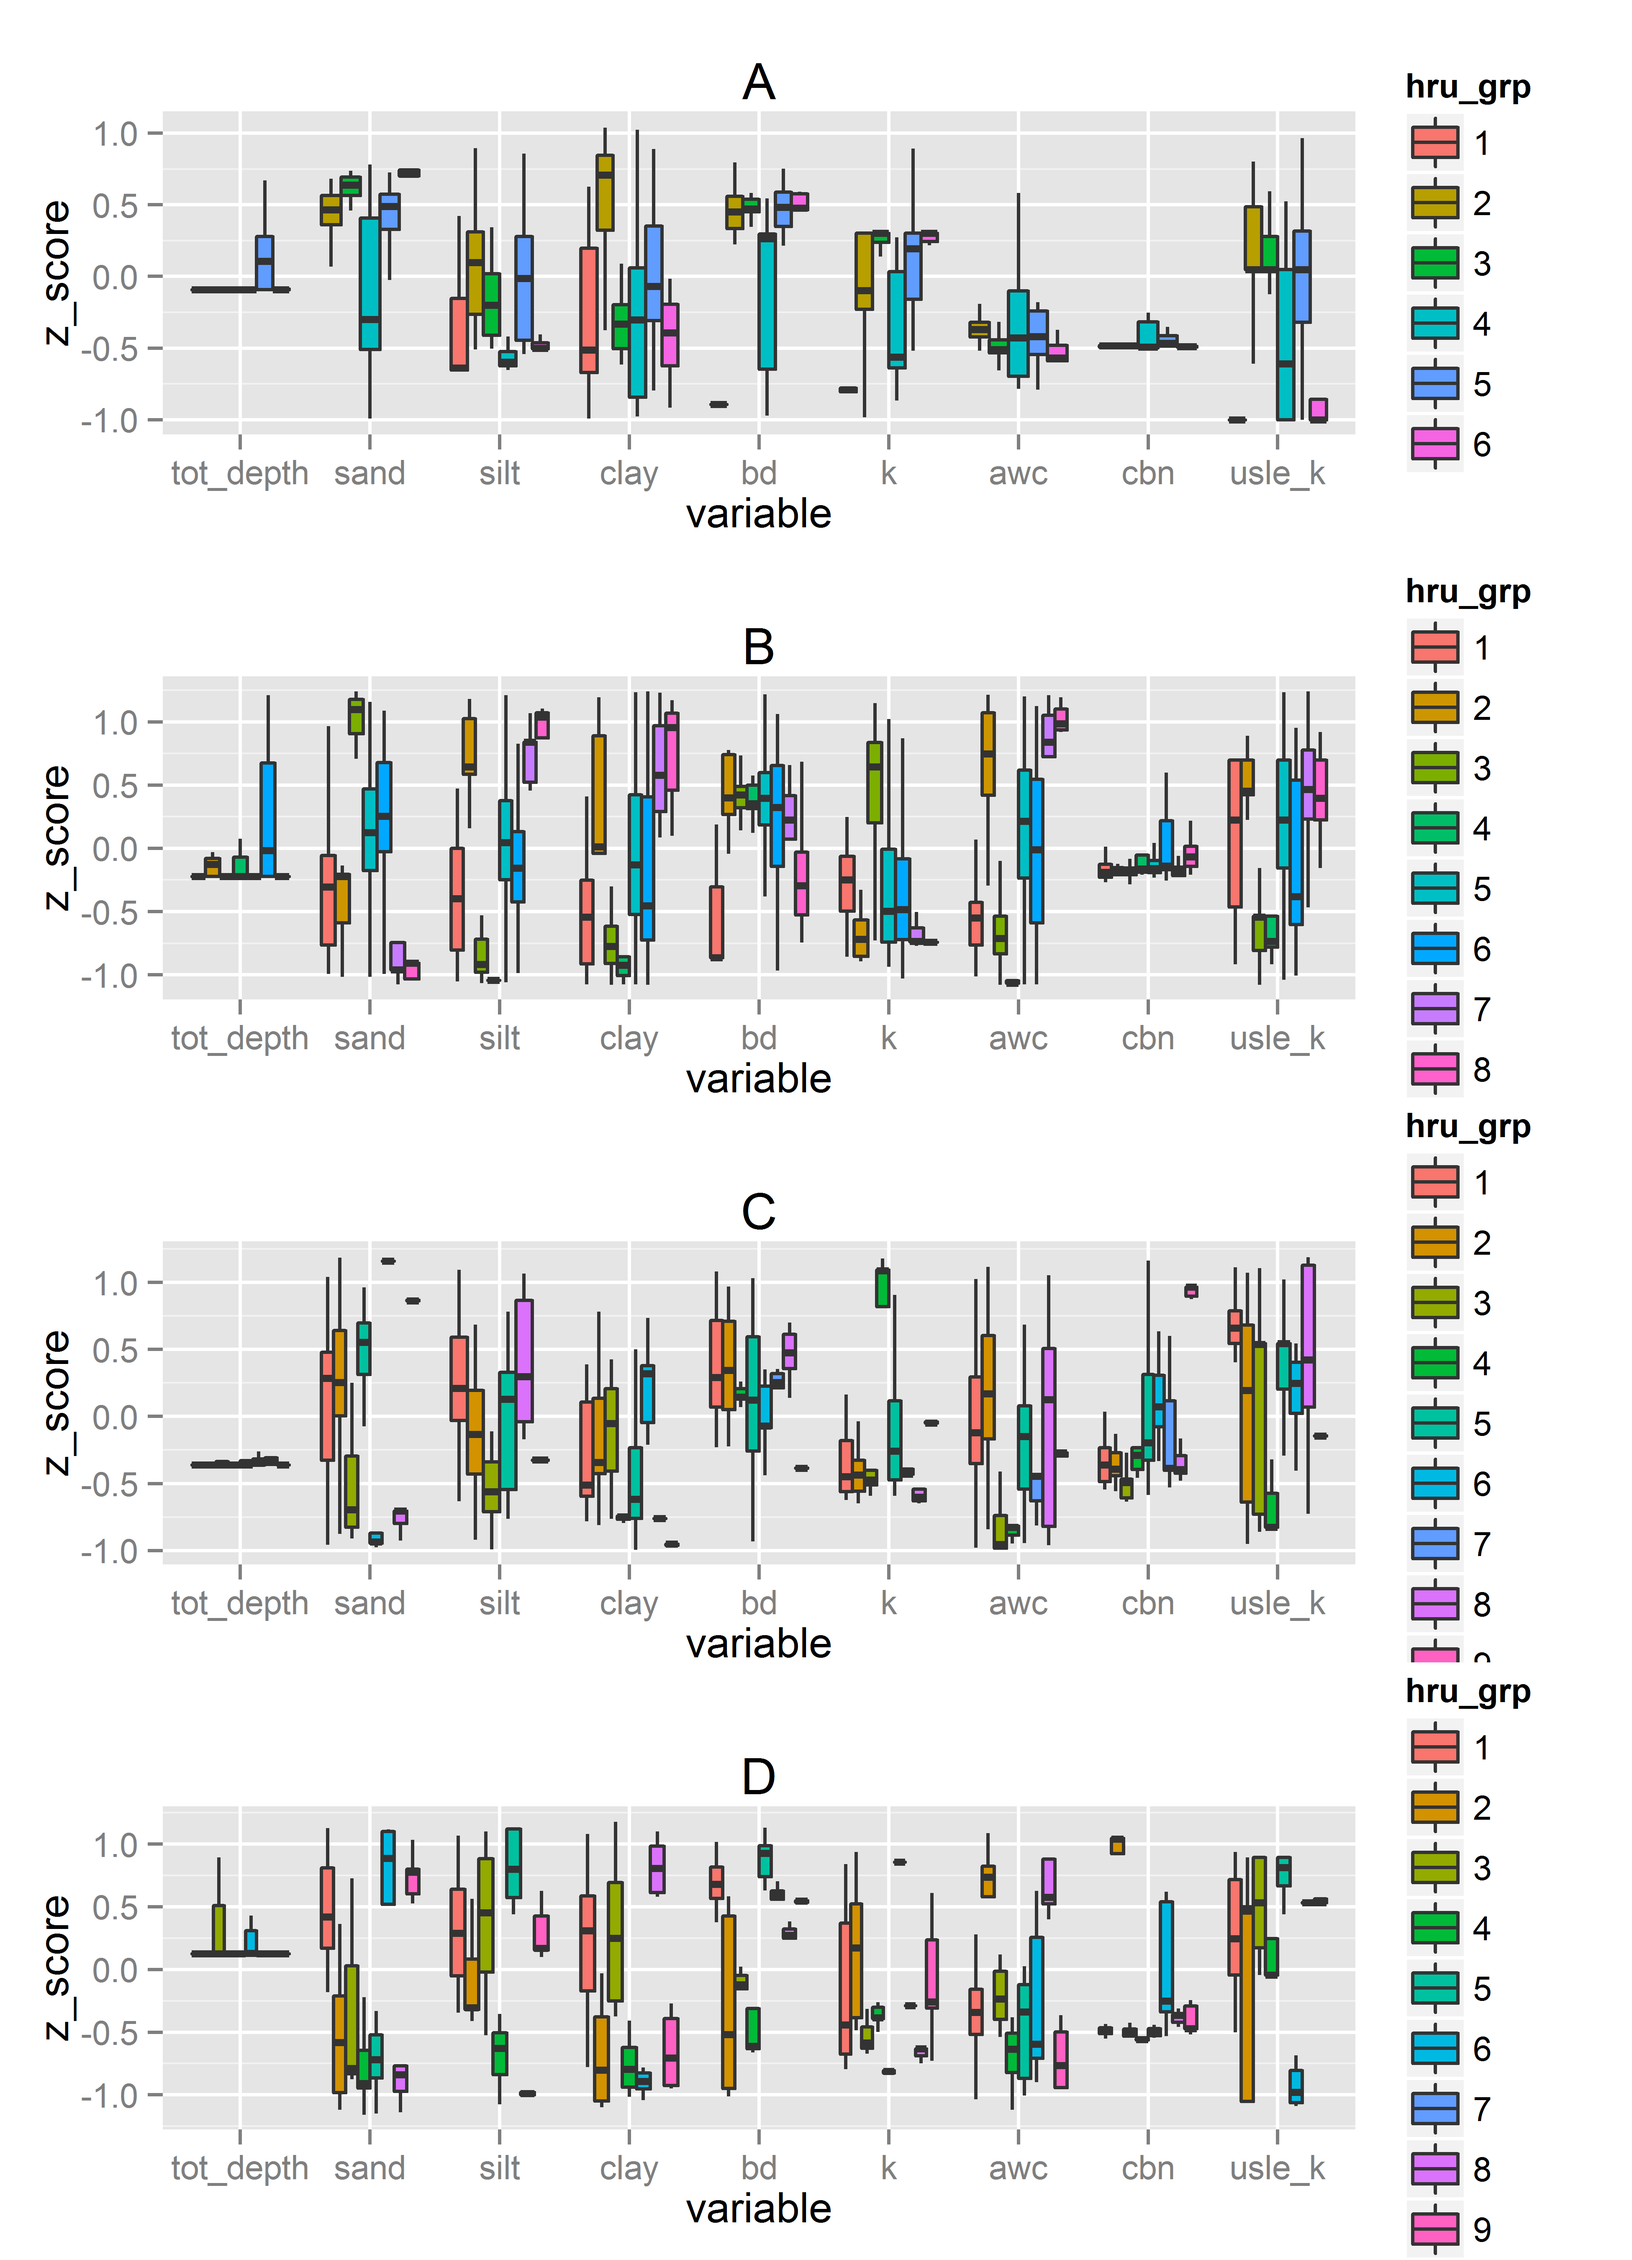
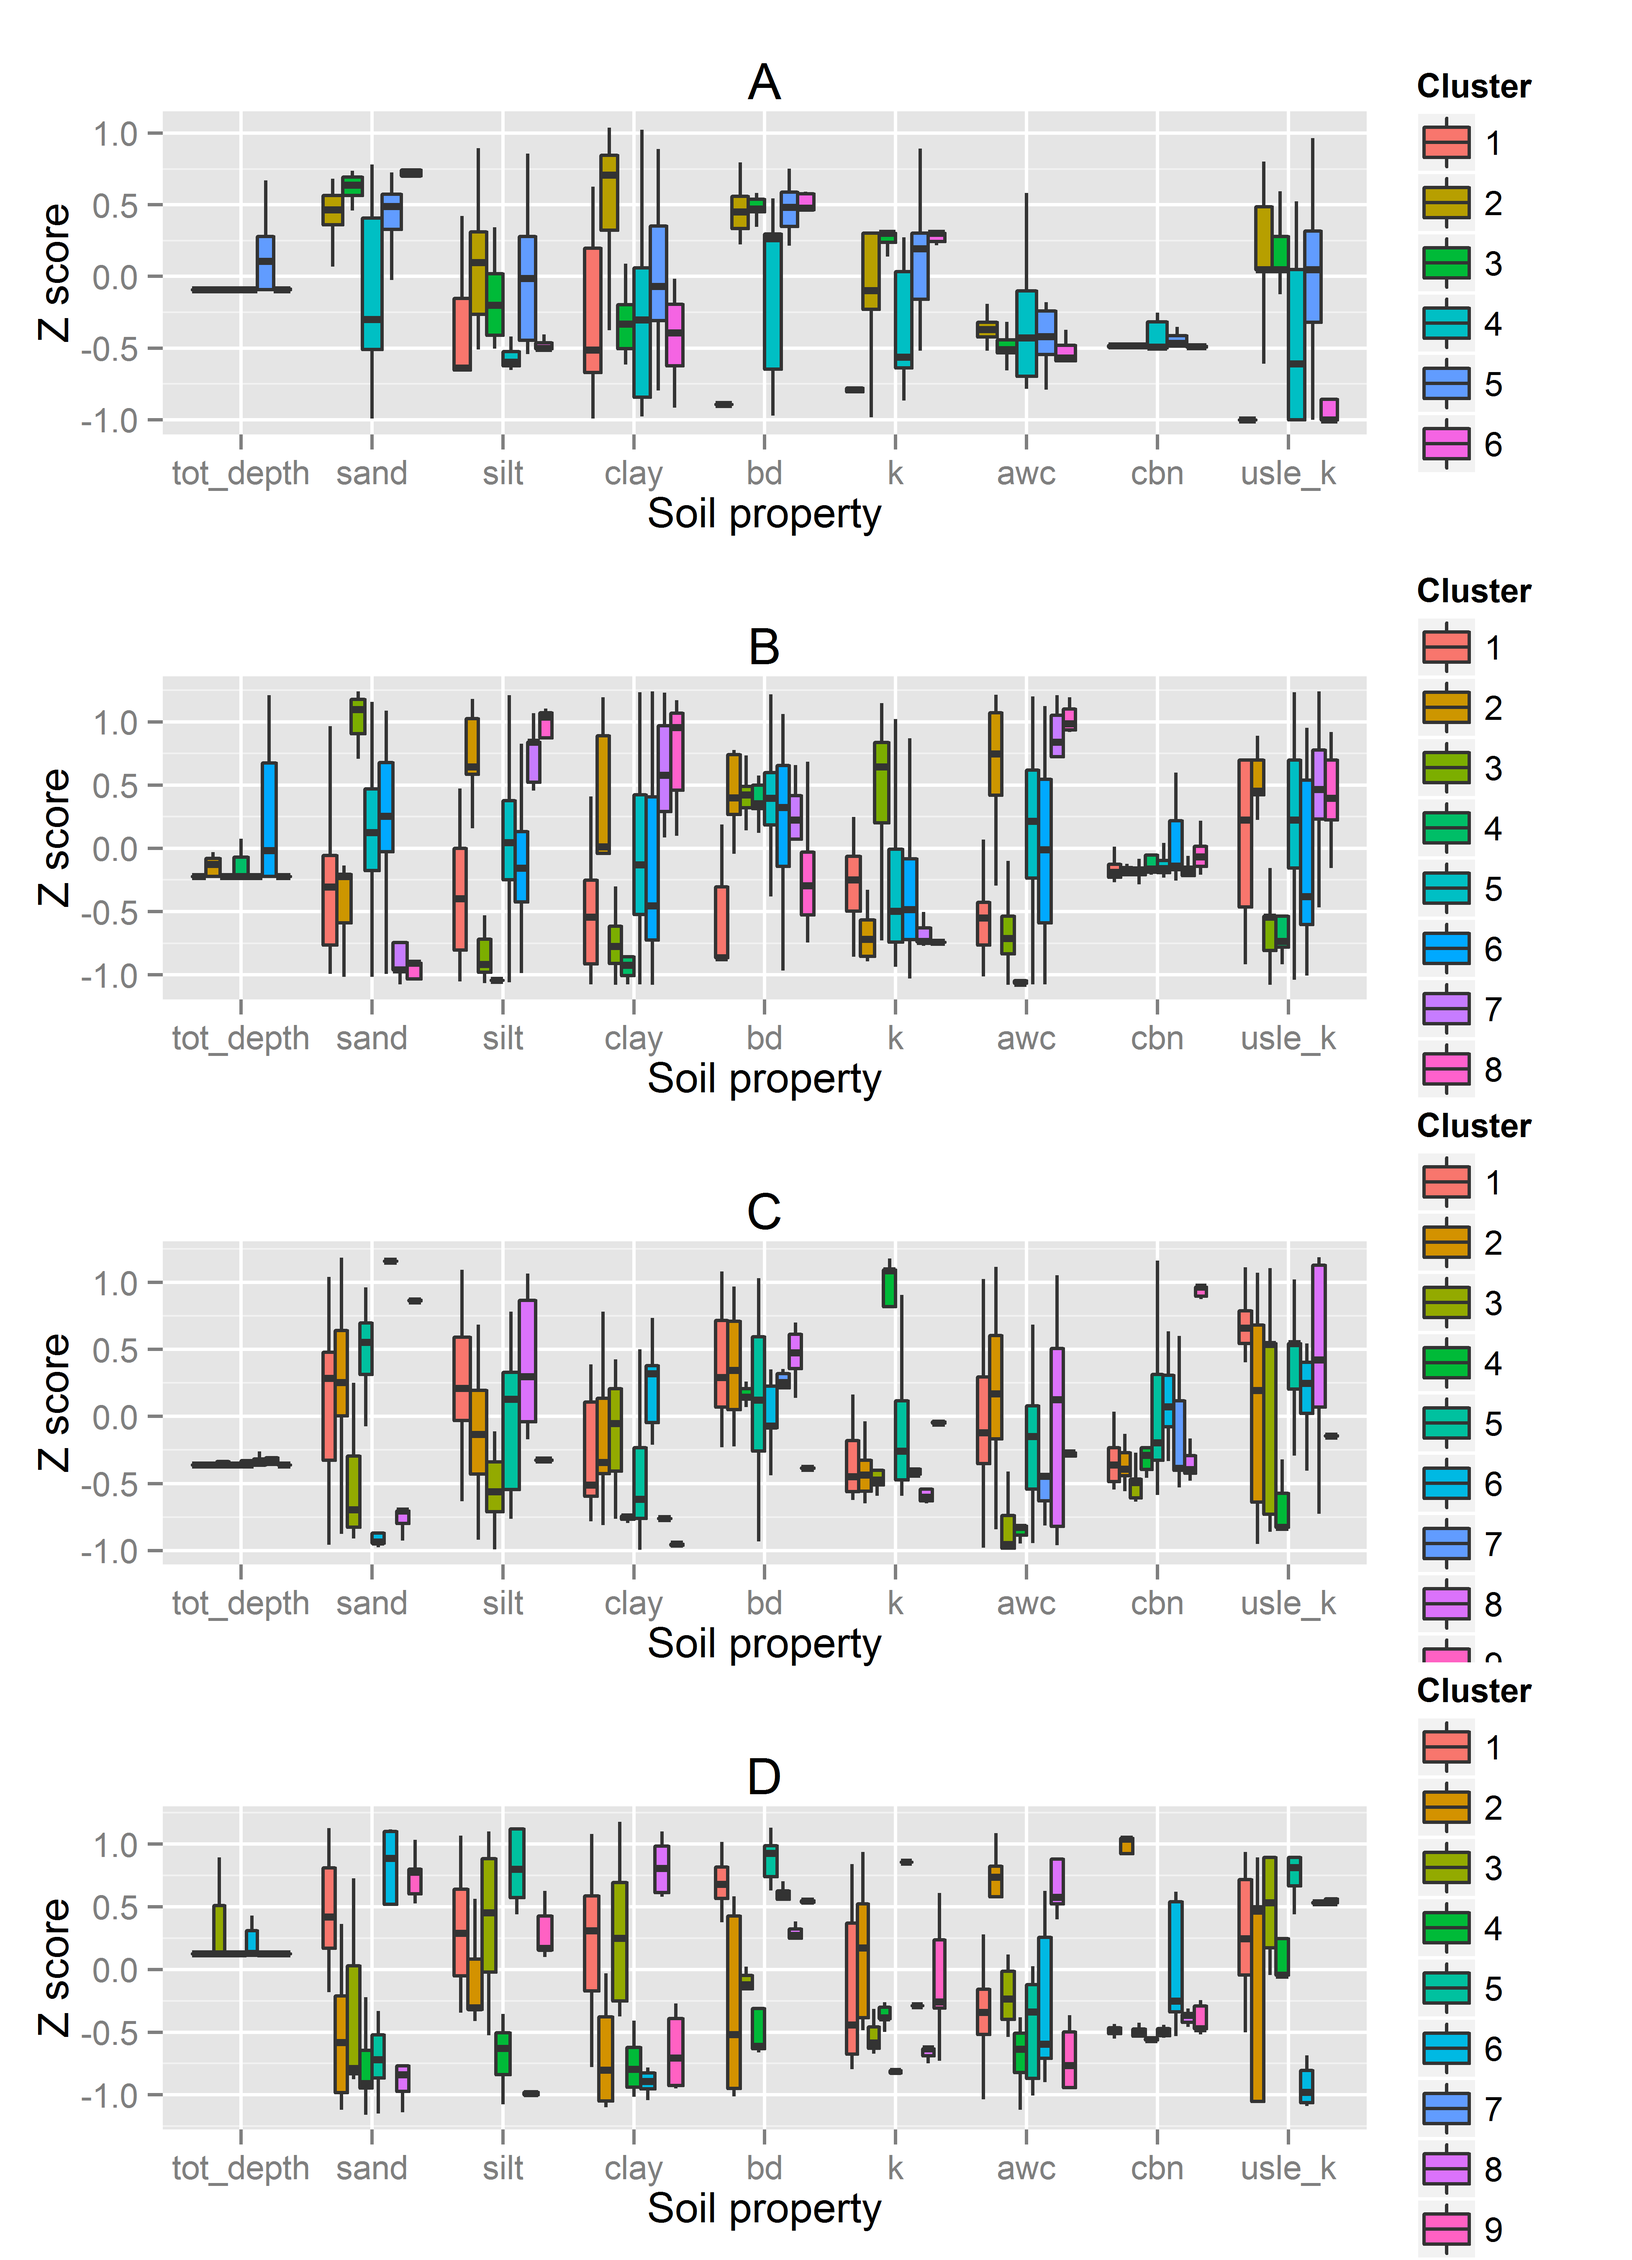
soils edits

diff --git a/doc/tex/model_setup/soils.tex b/doc/tex/model_setup/soils.tex
@@ -3,7 +3,7 @@ Soils are a critical part of the SWAT modeling framework; they determine many
 surface hydraulic properties such as texture, hydraulic conductivity, and
 available water capacity. We used the county-scale Soil Survey Geographical
 Database (SSURGO) maintained by the USDA-NRCS \cite{staff_gridded_2014}. For more information about SSURGO
-data see SSURGO metadata\footnote{\url{http://www.nrcs.usda.gov/wps/portal/nrcs/detail/soils/survey}.
+data see SSURGO metadata\footnote{\url{http://www.nrcs.usda.gov/wps/portal/nrcs/detail/soils/survey}}.
 The SSURGO database is structured by three levels of information: map units,
 components, and horizons \ref{ssurgo_schematic}. Horizons are the fundamental unit of soil in SSURGO, and are
 therefore where the majority of soil information is stored in the database.
@@ -18,7 +18,7 @@ are 1,796 map units with an average area of 15 sq. km..
 \begin{figure}[h]
   \centering
     \includegraphics[width=0.5\textwidth]{./img/ssurgo_data_structure_schematic.jpeg}
-	\caption{Schematic diagram of SSURGO data structure \cite{gatzke_aggregation_2011}.
+	\caption[Schematic diagram of SSURGO data structure]{Schematic diagram of SSURGO data structure \cite{gatzke_aggregation_2011}}.
 	\label{fig:ssurgo_shematic}
 \end{figure}
 
@@ -49,9 +49,9 @@ similarity\footnote{\url{https://github.com/dnrwaterqualitymodeling/wisconsinRiv
 
 Several changes were made to the dataset before aggregation, in order to
 facilitate processing. Soil organic carbon content is required by SWAT, but is
-given by SSURGO as soil organic matter. The organic matter value given in SSURGO
-was converted to an organic carbon value by multiplying by the average carbon
-content of soil organic matter, 50\% \citep{brady_elements_2004}. The HSG is
+given by SSURGO as soil organic matter. The organic matter (percent) value given in SSURGO
+was converted to percent organic carbon by multiplying by 50\% which is the average carbon
+content of soil organic matter \citep{brady_elements_2004}. The HSG is
 denoted as a letter in SSURGO, either A through D, or if the soil has different
 characteristics when drained, as two letters, A/D, B/D or C/D, the latter of
 which is the natural state of the soil if not artificially drained (e.g.,
@@ -87,7 +87,7 @@ aggregation algorithm.
 \begin{figure}[h]
   \centering
     \includegraphics[width=0.5\textwidth]{./img/component_schematic.png}
-	\caption{Schematic diagram of SSURGO map unit. Antigo and Houghton are aach components within the map unit. Within each component are varying numbers of components with varying horizon depths (e.g., Ap and O1 are the surface horizons for Antigo and Houghton respectively. Components were aggregated to map units by averaging soil properties (e.g., percent sand) horizontally across horizons.
+	\caption[Schematic diagram of SSURGO map unit]{Schematic diagram of SSURGO map unit. Antigo and Houghton are aach components within the map unit. Within each component are varying numbers of components with varying horizon depths (e.g., Ap and O1 are the surface horizons for Antigo and Houghton respectively. Components were aggregated to map units by averaging soil properties (e.g., percent sand) horizontally across horizons.}
 	\label{fig:component_shematic}
 \end{figure}
 
@@ -139,38 +139,29 @@ algorithm.
 
 
 Not every mapunit was included in the clustering procedure. Several of the soil property fields of the SSURGO dataset were not populated or commonly had "no data" values, these properties were not used in the
-clustering process so the spurious zeros would not influence the algorithm.
-These properties were coarse fragments, calcium carbonate, and electrical
-conductivity.  Further, we believe that several of the soil properties used by
-SWAT were not as important as others and so these properties were also excluded
-from the clustering algorithm; these variables were pH and albedo.
-
- Those mapunits that
-did not have hydrologic soil group were not included, nor were mapunits that did
-not have information on the soil properties of the horizons. These included the
-same miscellaneous mapunits as were excluded from the aggregation algorithm used
-in aggregating components to the mapunit level: pits, landfills, urban or made
-land, and rock outcrops. These miscellaneous mapunits were grouped by their
-non-soil/no-property status. Water polygons were also not included in the
-clustering analysis.
+clustering process so the spurious zeros would not influence the algorithm. These properties were coarse fragments, calcium carbonate, and electrical conductivity. Albedo and pH were also excluded from the clustering algorithm. Mapunits that had no HSG designation were not included, nor were mapunits that did not have information on the soil properties of the horizons. Examining these excluded map units revealed that they were generally disturbed landscapes or those without a significant soil layer such as pits, landfills, urban or made land, rock outcrops, and water. These miscellaneous mapunits were all grouped together as one cluster with the exception of water, which we clustered by itself.
 
 The same soil profile aggregation algorithm \citep{beaudette_algorithms_2013}
-used to aggregate several components together in the first part of the
-configuration was used to combine the soil profiles of a cluster into one
+used to aggregate several components together in the first step was used to combine the soil profiles of a cluster into one
 composite soil profile. In this implementation each mapunit was given equal
 weight in the aggregation algorithm. Those mapunits designated as miscellaneous
 were aggregated into one soil profile as the other clusters were, while the
-water mapunits were not aggregated. The miscellaneous  grouping was assigned a
-hydrologic soil group by converting the letter designation into an ordinal
+water mapunits were not aggregated. The miscellaneous grouping was assigned an
+HSG by converting the letter designation into an ordinal
 integer (that is A, B, C, D to 1, 2, 3, 4) and the average was taken, rounded to
-the nearest integer, and converted by to the appropriate hydrologic soil group
-designation, which happened to be B. Following SWAT convention, the water units
+the nearest integer, and converted back to a letter, which happened to be B. Following SWAT convention, the water units
 were given an HSG of D, and assigned an albedo of 0.23, a saturated conductivity
 of 600.
 
-A total of 35 soil classes were distilled from this process. A sample of the
-properties are found in table \ref{table:soil_prop}.
+A total of 35 soil classes were distilled from this process. The properties of each are summarized in \ref{table:soil_prop} and \ref{soil_boxplots}.
 \input{./tab/soil_property_table.tex}
+
+\begin{figure}[h!]
+  \centering
+    \includegraphics[width=\textwidth]{./img/cluster_variability.png}
+	\caption[Boxplots showing the variability of soil properties]{Boxplots showing the variability of soil properties within the final set of soil clusters. The letter above each plot denotes hydrologic soil group (HSG). Each color represents a cluster of map units. The Z score for each soil property is reported as $Z = X - \mu / \sigma$ where $X$ is the value of the soil property, $\mu$ and $\sigma$ are the population mean and standard deviation of a soil property. Outliers were excluded. The x-axis shows soil properties where tot\_depth is the soil depth, sand/silt/clay are the percent composition of each texture class, bd is bulk density, k is saturated conductivity, awc is avaiable water capacity, cbn is organic carbon concentration, and usle\_k is soil erodibility.}
+	\label{fig:soil_boxplots}
+\end{figure}
 
 Soil Phosphorus concentrations were obtained through the University of Wisconsin
 Soil Testing Laboratory \footnote{\url{http://uwlab.soils.wisc.edu/}}. Soil
@@ -189,4 +180,4 @@ concentrations were estimated as half of the reported phosphorus using the
 Bray-1 method measured with a spectrophotometer \citep{vadas_validating_2010}.
 Organic phosphorus concentrations were estimated by assuming that phosphorus
 constitues 0.85\% of organic material measured by loss of weight upon ignition
-(correspondence with Phillip Barak, needs citation).
+(correspondence with Phillip Barak, needs citation). Soil phosphorus estimates are not included in the SWAT model provided---they will be included during the phosphorus calibration phase.

diff --git a/doc/tab/soil_attributes_used_in_SWAT.tex b/doc/tab/soil_attributes_used_in_SWAT.tex
@@ -3,7 +3,7 @@
 	\centering
 		\begin{tabular}{c c c c c c c c}
 			\hline
-			\multirow{2}{*}{Soil Class}	 & 	Total Depth	 & 	$D_B$	 & 	AWC	 & 	$K_{sat}$	 & 	C	 & 	Clay	 & 	Sand \\
+			Soil Property	& Used in clustering & 	AWC	 & 	$K_{sat}$	 & 	C	 & 	Clay	 & 	Sand \\
 										& 	($mm$)	 	& ($g/cm^3$)& ($cm/cm$)& 	($\mu m/s$)	 & 	(\%)	 & 	(\%)	 & 	(\%) \\[0.5ex]
 			\hline \hline 
 			A1	 & 	1525.30	 & 	0.00	 & 	0.46	 & 	125.37	 & 	37.25	 & 	0.00	 & 	0.00  \\

diff --git a/doc/wisconsin_river_tmdl_model_report.tex b/doc/wisconsin_river_tmdl_model_report.tex
@@ -1,11 +1,6 @@
 \documentclass[10pt,letterpaper]{article}%,draft
 
 \usepackage{report}
-\usepackage[printwatermark]{xwatermark}
-\usepackage{xcolor}
-\usepackage{graphicx}
-
-\newwatermark[allpages,angle=45,scale=3,xpos=0,ypos=0]{DRAFT}
 
 \author{Wisconsin Department of Natural Resources}
 \title{Estimations of loads and sources of phosphorus and sediment at ungauged sites in the Wisconsin River basin: preliminary notes on SWAT model configuration}
